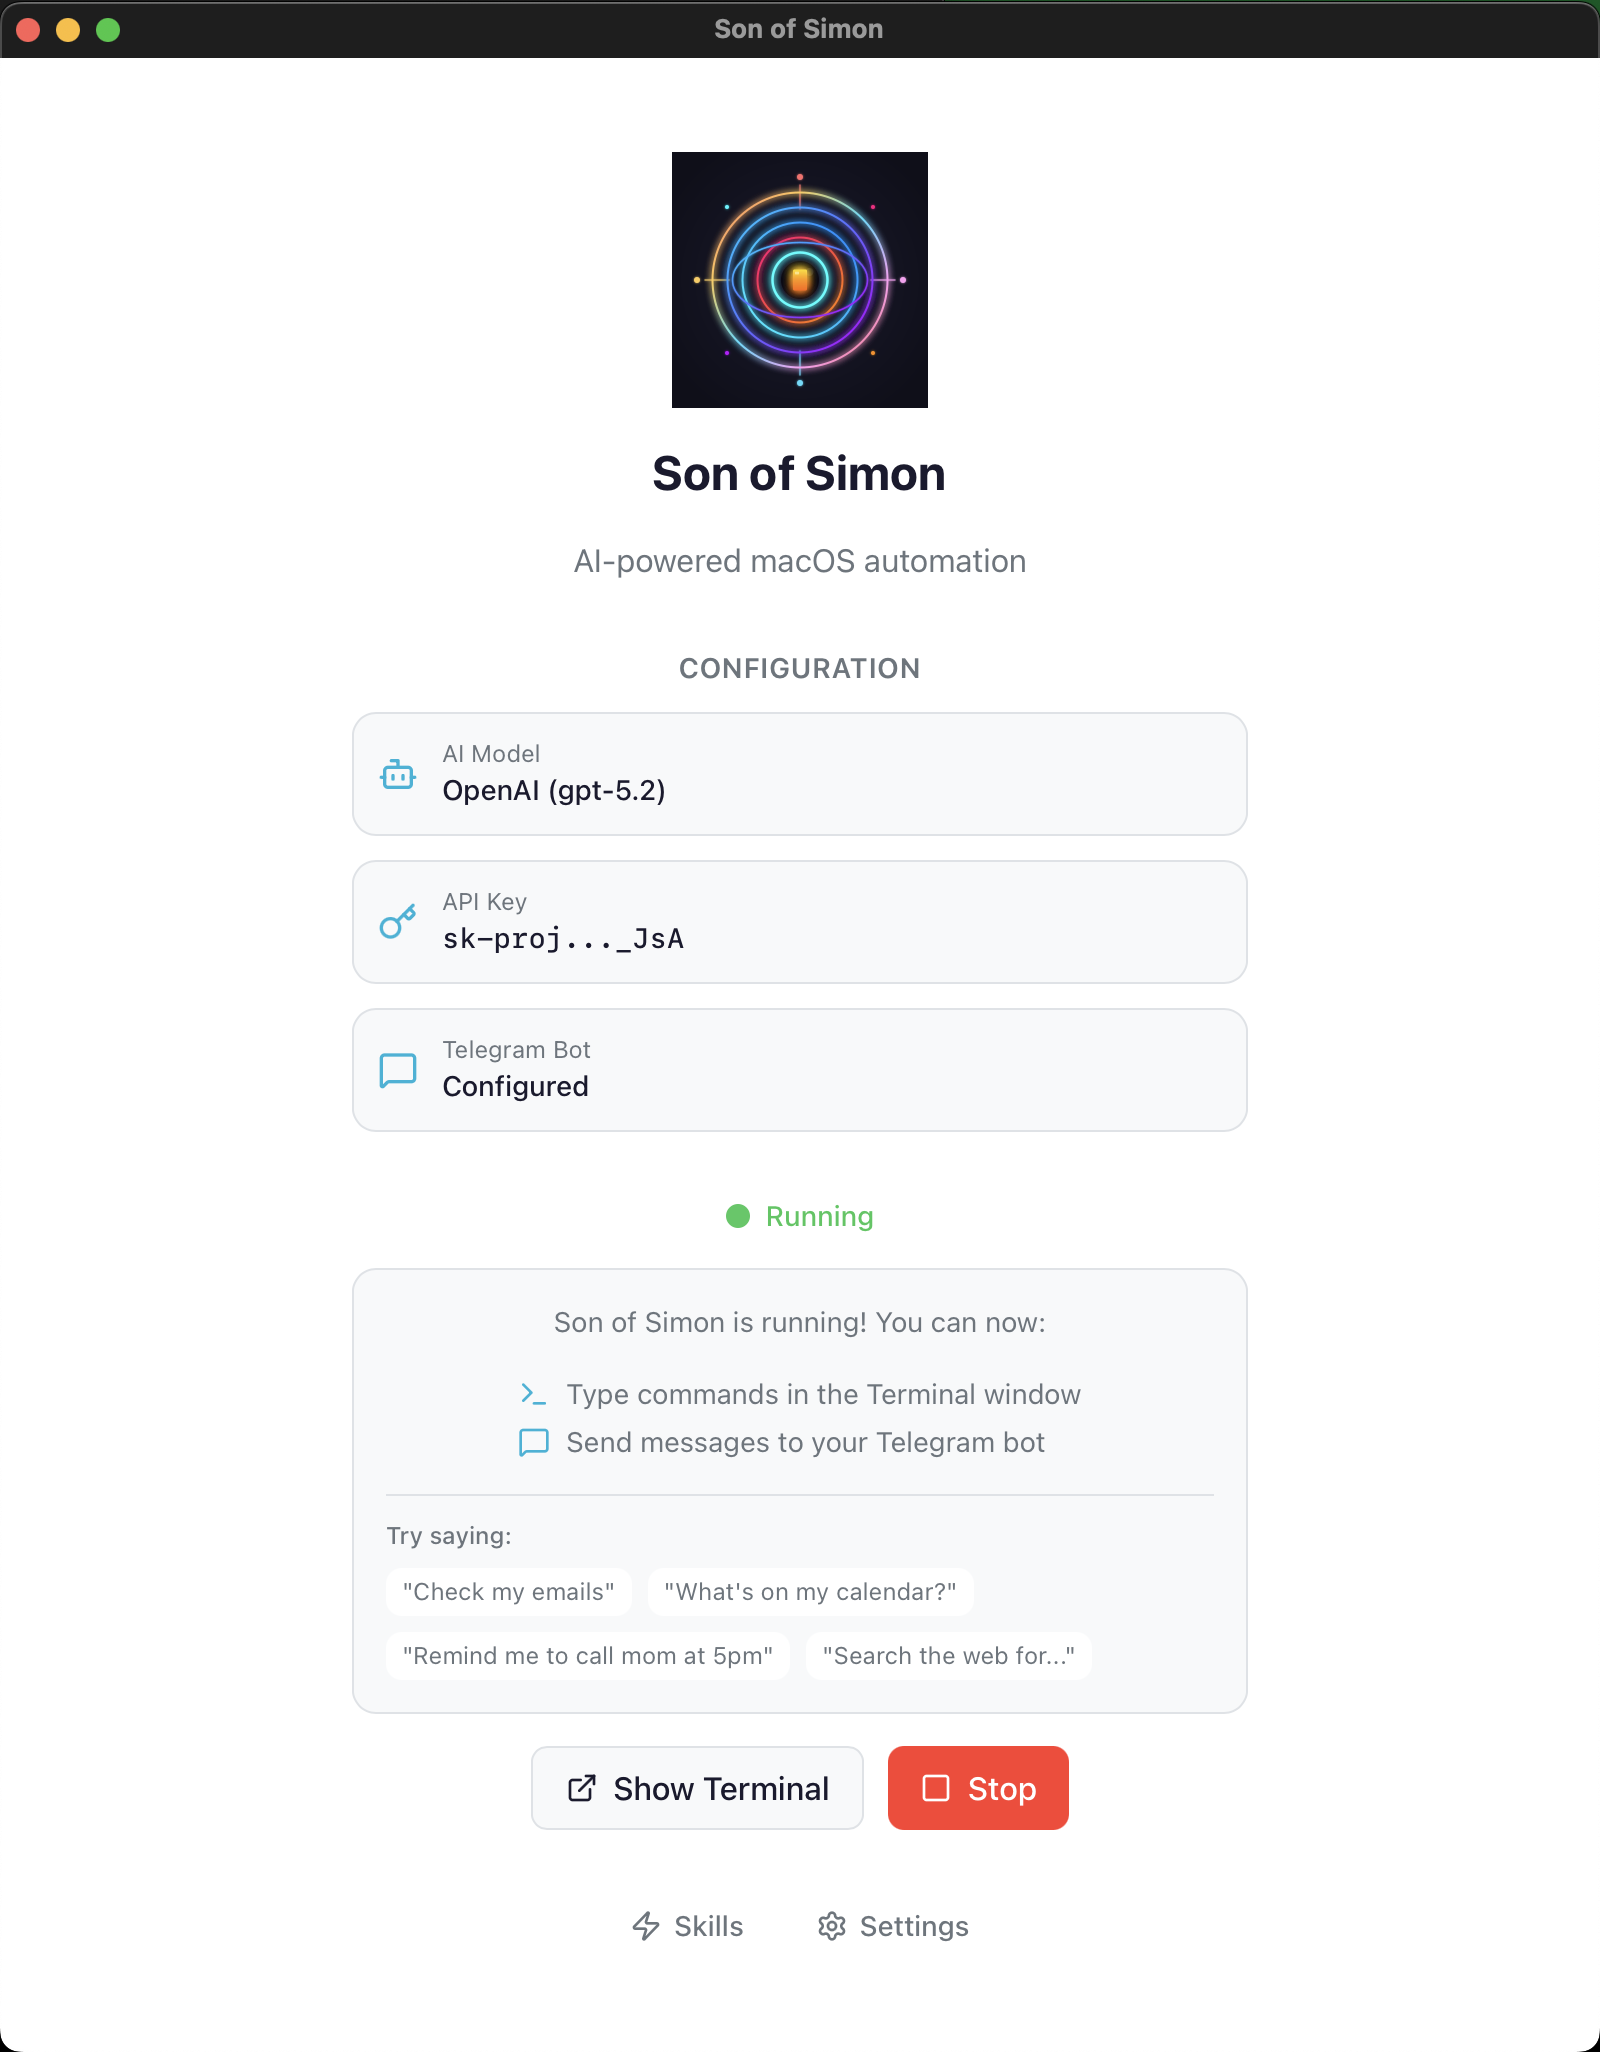
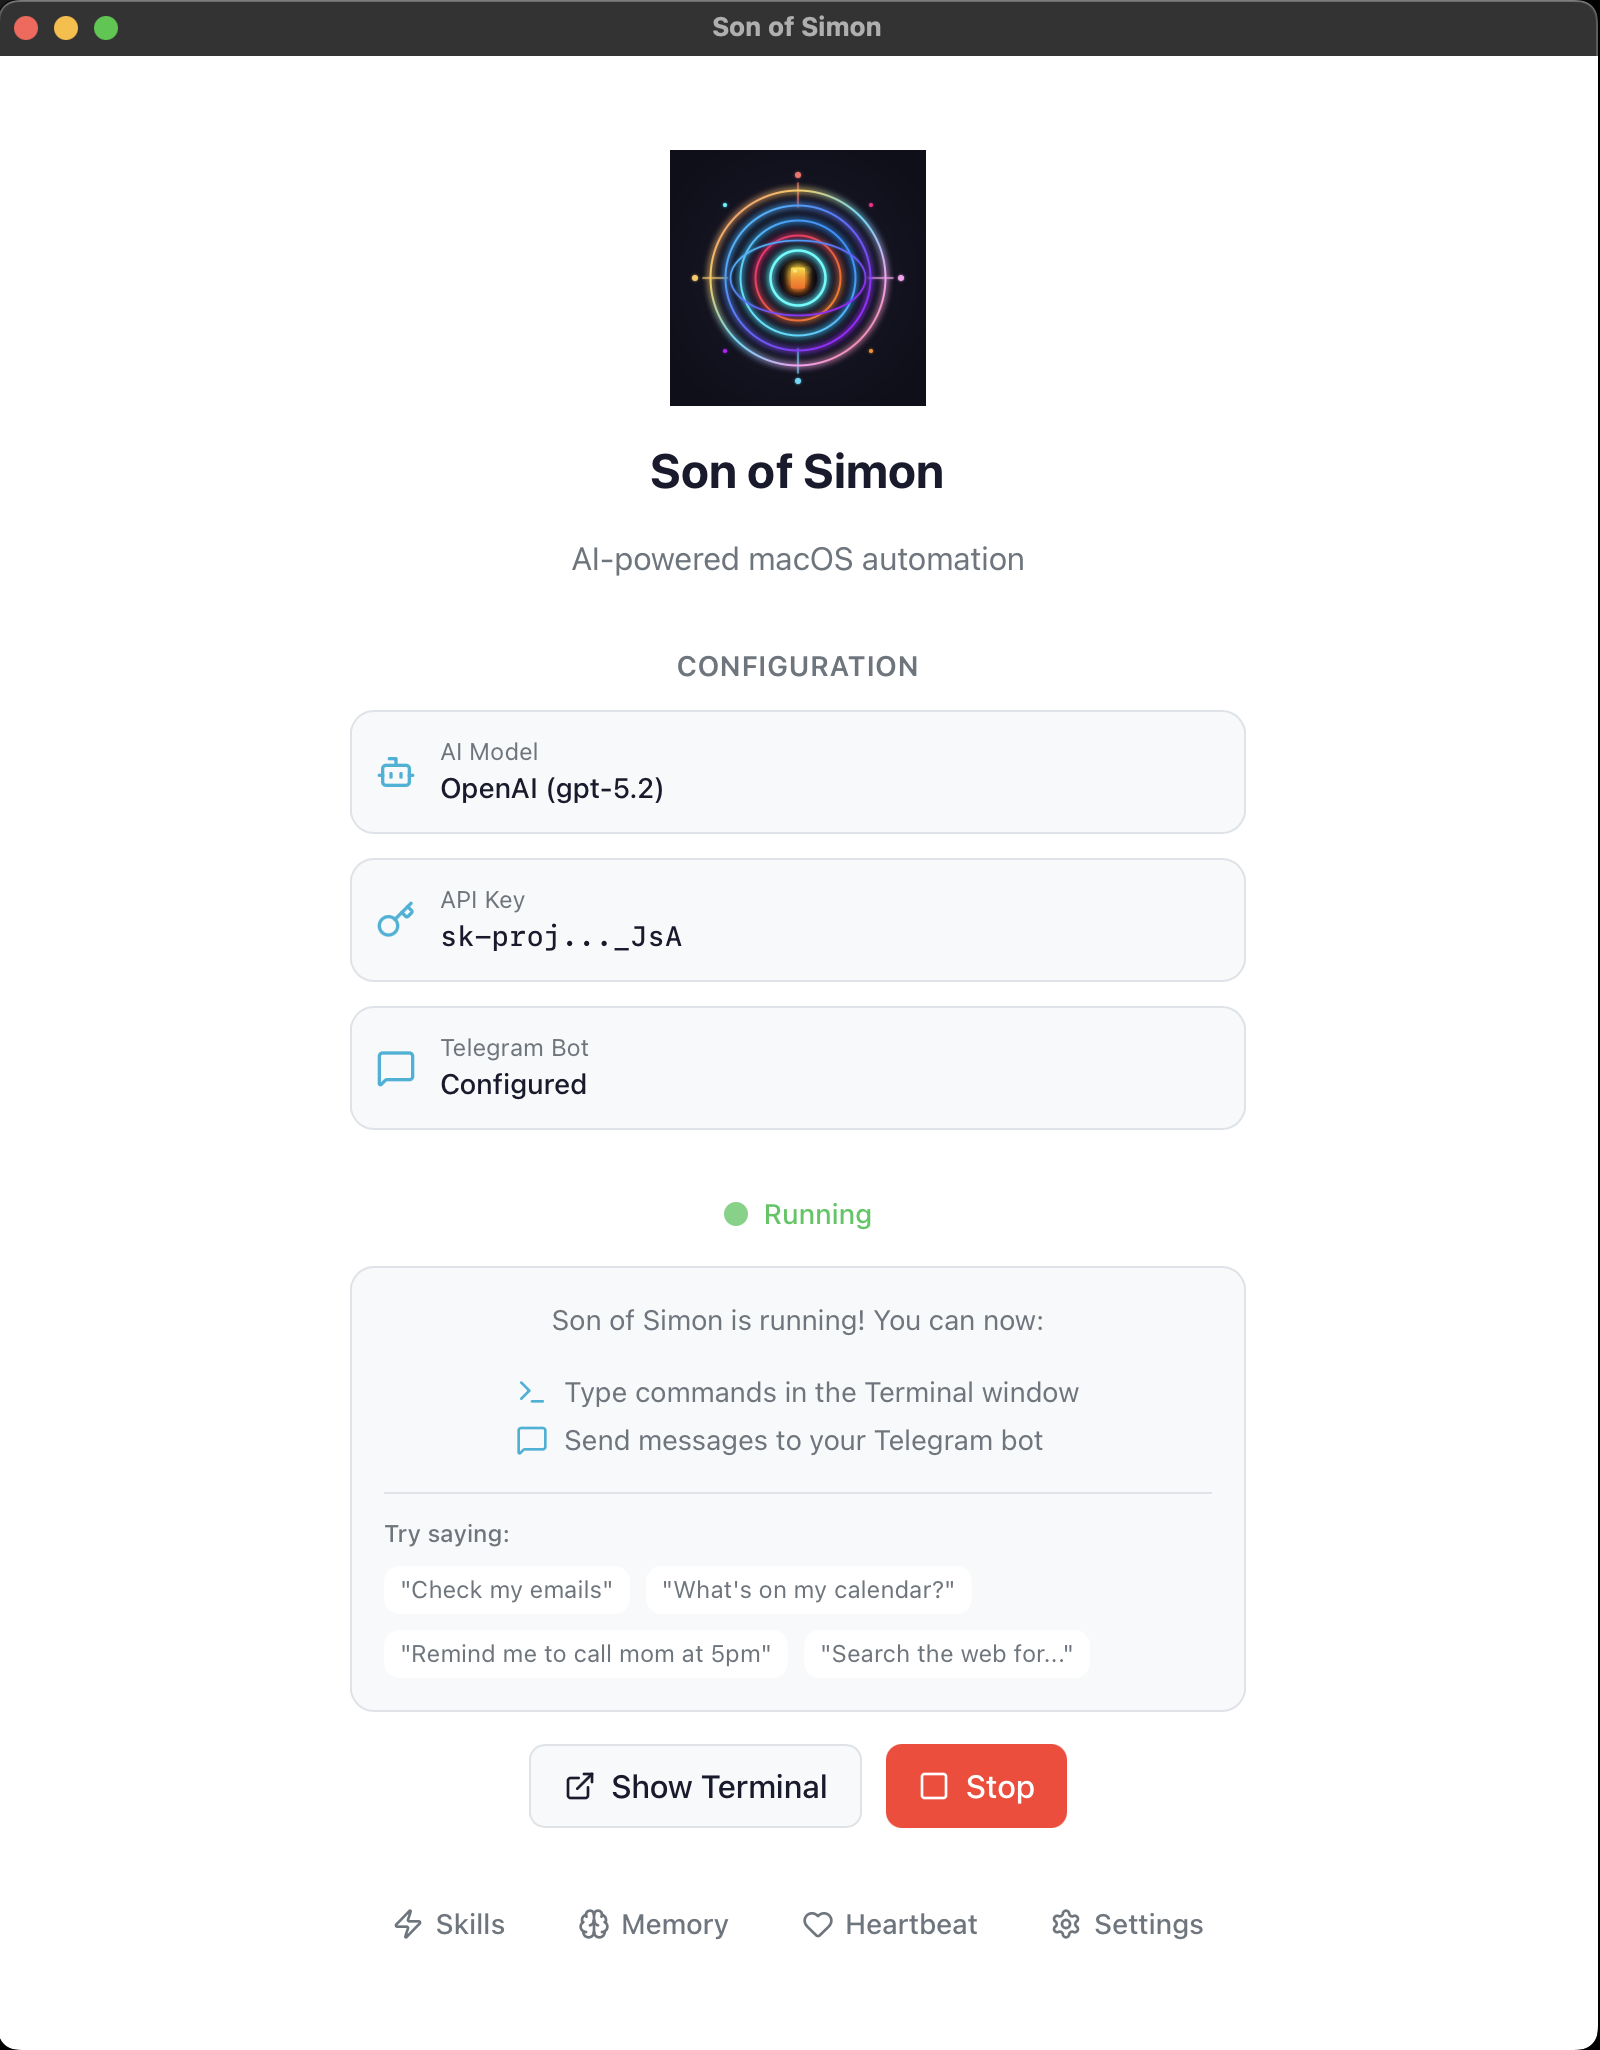
Add heartbeat screenshot and expand README section
Documents heartbeat functionality with example use cases and
a screenshot of the dashboard heartbeat editor panel.

diff --git a/README.md b/README.md
@@ -5,7 +5,7 @@
 <h1 align="center">Son of Simon</h1>
 
 <p align="center">
-  <em>Your personal Mac assistant. Built-in apps. Voice messages. No setup headaches.</em>
+  <em>Your personal Mac assistant. Built-in apps. Voice messages. Secure by default. No setup headaches.</em>
 </p>
 
 ---
@@ -31,6 +31,7 @@ You do not need to code. Download the app, sign in, and start asking.
 - Fill out simple web forms (bookings, purchases, etc.)
 - Send and receive messages over Telegram (text or voice)
 - Run daily or weekly routines (optional)
+- Heartbeat — a prompt that runs every 30 minutes while the service is active
 
 ## How it works (simple version)
 
@@ -45,7 +46,8 @@ You do not need to code. Download the app, sign in, and start asking.
 3. Open it and follow the setup steps
 
 The setup wizard will guide you through:
-- Connecting your AI provider (OpenAI, Anthropic, or another provider)
+- Connecting your AI provider (Anthropic, OpenAI, or OpenRouter)
+- Choosing a model (Claude, GPT-5, DeepSeek, Gemini, GLM, Llama, and more)
 - Granting macOS permissions
 - Optional Telegram setup
 
@@ -73,6 +75,34 @@ Each skill defines:
 
 Custom skills are saved to `~/.macbot/skills/`. Skills use the **AgentSkills standard** (the same SKILL.md format used by OpenClaw, Claude Code, and Cursor) so you can drop in skills from any compatible tool and they just work. You can also use skills from https://clawhub.ai/.
 
+## AI providers and models
+
+Son of Simon works with multiple AI providers. Pick one during setup or change it later in `~/.macbot/.env`.
+
+| Provider | Models | Key prefix |
+|---|---|---|
+| **Anthropic** | Claude Sonnet 4.5, Opus 4.6, Haiku 4.5 | `sk-ant-` |
+| **OpenAI** | GPT-5.2, GPT-5.2 Pro, GPT-5.1, GPT-5 Mini, o4-mini | `sk-proj-` |
+| **OpenRouter** | DeepSeek V3.2, Gemini 2.5 Flash/Pro, GLM 4.7, Llama 4 Maverick, Qwen 3, Grok 4.1 | `sk-or-` |
+
+OpenRouter gives you access to dozens of models with a single API key. Good if you want to experiment.
+
+## Memory and Heartbeat
+
+**Memory** — Edit `~/.macbot/memory.yaml` from the dashboard (Brain icon) or any text editor. This file is loaded into every agent interaction as persistent context. Use it to store preferences, facts, or instructions the agent should always know.
+
+**Heartbeat** — Edit `~/.macbot/heartbeat.md` from the dashboard (Heart icon). When `son start` is running, this prompt executes every 30 minutes during active hours (7 AM - 11 PM). If the file is empty or missing, nothing happens. Results are sent to Telegram if configured.
+
+Use it for recurring checks like:
+- Scan Mail for unread messages and flag anything urgent
+- Check Calendar for upcoming meetings
+- Check Reminders for items due today
+- Suggest follow-ups on unanswered email threads
+
+<p align="center">
+  <img src="docs/images/heartbeat.png" alt="Heartbeat" width="500">
+</p>
+
 ## Requirements
 
 - macOS
@@ -80,12 +110,23 @@ Custom skills are saved to `~/.macbot/skills/`. Skills use the **AgentSkills sta
 - Internet access for your AI provider
 - Optional: Telegram bot for remote access
 
-## Privacy and safety
+## Secure by default
 
-- Your email, calendar, and reminders stay in Apple apps
-- The assistant sends prompts to your AI provider to understand your request
-- If you enable Telegram, messages go through Telegram
-- Local data is stored in `~/.macbot` (settings, logs, and memory)
+Son of Simon does not store your passwords. Your email, calendar, and other account credentials are managed by macOS Keychain — the same way Apple Mail and Calendar already handle them. The assistant talks to your apps through AppleScript. It never sees or stores your passwords.
+
+There is no gateway process, no server to expose, and no OAuth tokens to manage. Nothing listens on a port. The attack surface is your Mac and the LLM API call — that's it.
+
+- No stored passwords — macOS Keychain handles authentication
+- No gateway — nothing listening on a port, no service to configure or secure
+- No OAuth tokens — the apps are already signed in, the agent just uses them
+- No browser automation for your own data — AppleScript talks to apps directly
+- LLM API calls are the only traffic that leaves your Mac
+
+## It learns you
+
+Son of Simon remembers context between conversations. It stores observations about your preferences, habits, and patterns into a local memory file. Over time it gets better at helping you — it will know how you like your emails drafted, which calendar you use for work vs personal, and how you prefer reminders worded.
+
+All memory is stored locally in `~/.macbot/memory/`. Nothing is shared. You can read, edit, or delete it at any time.
 
 ## OpenClaw vs Son of Simon
 
@@ -95,6 +136,9 @@ Custom skills are saved to `~/.macbot/skills/`. Skills use the **AgentSkills sta
 | **Apple apps** | Native (Mail, Calendar, Reminders, Notes, Safari) | Limited (iMessage via imsg) |
 | **Gmail / Office 365** | Just add account in Apple Mail/Calendar | Browser flow or OAuth setup |
 | **Setup** | Single app with guided wizard | Gateway + configuration |
+| **Passwords** | Handled by macOS Keychain — never stored | OAuth tokens / API keys you manage |
+| **Gateway** | None — no ports open, no service to expose | Always-on gateway process |
+| **Memory** | Learns your preferences over time, stored locally | Persistent memory (cloud or local) |
 | **Skills format** | AgentSkills standard (compatible) | AgentSkills standard (compatible) |
 | **Messaging** | Telegram | WhatsApp, Telegram, Slack, Discord, Signal, iMessage, etc. |
 
@@ -124,7 +168,7 @@ Common commands:
 |---------|-------------|
 | `son run "<goal>"` | Run a natural language goal |
 | `son chat` | Interactive chat mode |
-| `son start` | Start background service (Telegram + cron) |
+| `son start` | Start background service (heartbeat + Telegram + cron) |
 | `son doctor` | Verify setup and permissions |
 
 ## License
